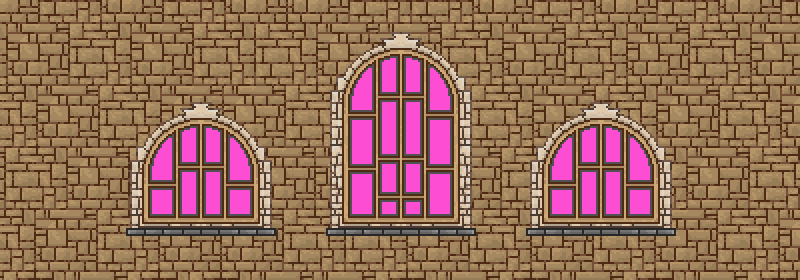
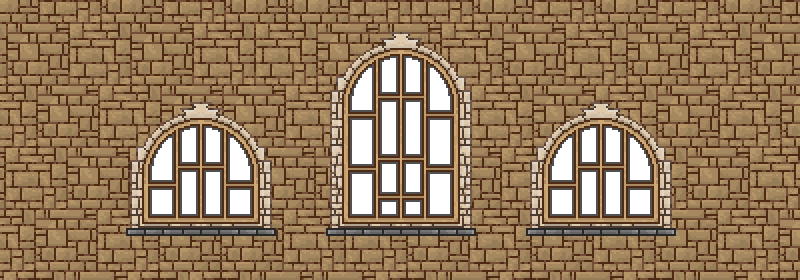
Simple background scrolling. Need to redo the sprite.

Changed region(s): [[0.4375, 0.2, 0.5625, 0.7714], [0.6875, 0.4571, 0.8125, 0.7714], [0.1875, 0.4571, 0.3125, 0.7714]]

diff --git a/src/MainGame/GameManager.java b/src/MainGame/GameManager.java
@@ -52,6 +52,7 @@ public class GameManager
 
     //Private Variables - Engine
     private PlayerObject _player;
+    private Backdrop _skybg;
     private EnemySpawner _enemySpawner;
     private double _lastPlayerDirection = 0;
 
@@ -105,32 +106,38 @@ public class GameManager
     {
         //Rendered Backdrops
         Backdrop bg = new Backdrop(new Rectangle(
-                SecLocX(0), SecLocY(0),800,280), true, "BackWall");
+                SecLocX(0), SecLocY(0),800,280), true, true, "BackWall");
         bg.SetSprite(new Image(new File("src/ImageAssets/backgrounds/penguinbg10000.png")
                 .toURI().toString()));
         _currentSector.AddObject(bg,1);
 
+        _skybg = new Backdrop(new Rectangle(
+                SecLocX(0), SecLocY(50),800,280), false, false, "BackSky");
+        _skybg.SetSprite(new Image(new File("src/ImageAssets/backgrounds/skybg0000.png")
+                .toURI().toString()));
+        _currentSector.AddObject(_skybg,0);
+
         Backdrop floor = new Backdrop(new Rectangle(
-                SecLocX(0), SecLocY(280),800,320), false, "Floor");
+                SecLocX(0), SecLocY(280),800,320), true, false, "Floor");
         floor.SetSprite(new Image(new File("src/ImageAssets/backgrounds/woodfloor0000.png")
                 .toURI().toString()));
         _currentSector.AddObject(floor,1);
 
         //Non-rendered Game Bounds
         Backdrop topBound = new Backdrop(new Rectangle(
-                1, 1, X_RES - 1,1), true, "TopBounds");
+                1, 1, X_RES - 1,1), true, true, "TopBounds");
         _currentSector.AddObject(topBound, 1);
 
         Backdrop botBound = new Backdrop(new Rectangle(
-                1, Y_RES - 1,X_RES - 1,1), true, "BottomBounds");
+                1, Y_RES - 1,X_RES - 1,1), true, true, "BottomBounds");
         _currentSector.AddObject(botBound, 1);
 
         Backdrop leftBound = new Backdrop(new Rectangle(
-                1,1,1, Y_RES - 1), true, "LeftBounds");
+                1,1,1, Y_RES - 1), true, true, "LeftBounds");
         _currentSector.AddObject(leftBound, 1);
 
         Backdrop rightBound = new Backdrop(new Rectangle(
-                X_RES - 1 , 1 ,1, Y_RES - 1), true, "RightBounds");
+                X_RES - 1 , 1 ,1, Y_RES - 1), true, true, "RightBounds");
         _currentSector.AddObject(rightBound, 1);
     }
 
@@ -282,6 +289,8 @@ public class GameManager
                                 if(HandlePlayerAction(gObj, gc))
                                 {
                                     //Player action handled.
+                                    Point p = _skybg.getLocation();
+                                    _skybg.NSetLocation(new Point(SecLocX(0), SecLocY((_player.y - _skybg.height)/20)+30));
                                 }
                                 else if(HandleEnemyAction(gObj, gc))
                                 {

diff --git a/src/GameObjects/Environmental/Backdrop.java b/src/GameObjects/Environmental/Backdrop.java
@@ -7,9 +7,9 @@ import java.awt.*;
 public class Backdrop extends GameObject
 {
 
-    public Backdrop(Rectangle size, boolean canCollide, String alias)
+    public Backdrop(Rectangle size, boolean isImmobile, boolean canCollide, String alias)
     {
-        super(size, true, 1.0F);
+        super(size, isImmobile, 1.0F);
 
         this.SetCanCollide(canCollide);
         this.SetAlias(alias);
